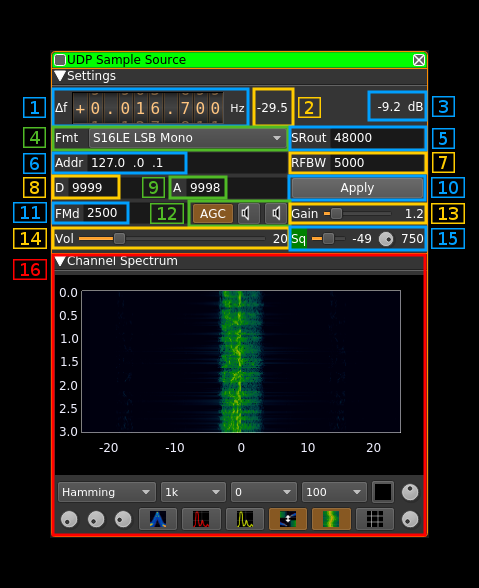
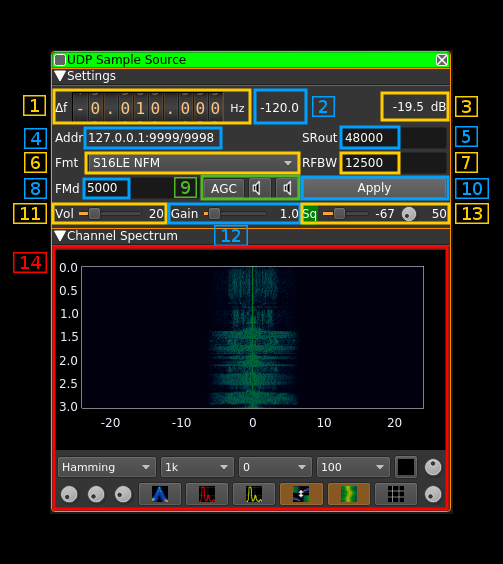
Updated documentation (2)

diff --git a/plugins/channelrx/udpsrc/readme.md b/plugins/channelrx/udpsrc/readme.md
@@ -26,7 +26,17 @@ Total power in dB relative to a +/- 1.0 amplitude signal received in the pass ba
 
 Total power in dB relative to a +/- 1.0 amplitude signal sent over UDP.
 
-<h3>4: Type of samples</h3>
+<h3>4: UDP address and ports</h3>
+
+These parameters are set with the basic channel settings dialog. See: [here](https://github.com/f4exb/sdrangel/blob/master/sdrbase/readme.md#6-channels)
+
+The display is in the format `address:audio port/data port` 
+
+<h3>5: Signal sample rate</h3>
+
+Sample rate in samples per second of the signal that is sent over UDP. The actual byte rate depends on the type of sample which corresponds to a number of bytes per sample.
+
+<h3>6: Type of samples</h3>
 
 Combo box to specify the type of samples that are sent over UDP.
 
@@ -41,27 +51,31 @@ Combo box to specify the type of samples that are sent over UDP.
   - `S16LE AM !DC Mono`: Same as above but with a DC block based on magnitude average over a 5 ms period     
   - `S16LE AM BPF Mono`: Same as AM Mono but raw magnitude signal is passed through a bandpass filter with lower cutoff at 300 Hz and higher cutoff at RF bandwidth frequency     
   
-<h3>5: Signal sample rate</h3>
-
-Sample rate in samples per second of the signal that is sent over UDP. The actual byte rate depends on the type of sample which corresponds to a number of bytes per sample.
-
-<h3>6: Remote IP address</h3>
-
-IP address of the remote destination to which samples are sent 
-
 <h3>7: Signal bandwidth</h3>
 
 The signal is bandpass filtered to this bandwidth (zero frequency centered) before being sent out as raw I/Q samples or before being demodulated for SSB and FM outputs. Thus a 20000 Hz bandwidth for example means +/-10000 Hz around center channel frequency.
 
 When SSB formats are used only the lower half (LSB) or upper half (USB) of the bandwidth is used. Thus to pass SSB over 3000 Hz bandwidth one should set this signal bandwidth to 6000 Hz.
 
-<h3>8: Remote data port</h3>
+<h3>8: FM deviation</h3>
 
-Remote UDP port number to which samples are sent 
+This is the maximum expected FM deviation in Hz for NFM demodulated samples. Therefore it is active only for `NFM` types of sample formats. A positive deviation of this amount from the central carrier will result in a sample output value of 32767 (0x7FFF) corresponding to a +1.0 real value. A negative deviation of this amount from the central carrier will result in a sample output value of -32768 (0x8000) corresponding to a -1.0 real value.  
 
-<h3>9: Local audio UDP port</h3>
+<h3>9: AGC and audio feedback control</h3>
 
-There is a possible feedback of audio samples at 48 kHz into SDRangel using this port as the UDP port on the local machine to collect the audio samples.
+![UDP Source plugin GUI AGC](../../../doc/img/UDPsrc_plugin_agc.png)
+
+<h4>9.1: Toggle AGC</h4>
+
+It is effective only for AM and SSB. Signal is normalized to +/- 0.5 times the maximum amplitude with a time constant (averaging) of 200 ms. When engaged the squelch gate is fixed at 50 ms. The release time controlled by (15.3) can be increased from the 50 ms default for SSB signals to prevent accidental signal drops due to drops in the voice.  
+
+<h4>9.2: Toggle audio feedback</h4>
+
+This turns on or off the audio samples feedback
+
+<h4>9.3: Mono/Stereo toggle for audio feedback</h4>
+
+This toggles between mono or stereo audio feedback
 
 <h3>10: Apply (validation) button</h3>
 
@@ -77,53 +91,33 @@ The changes in the following items only become effective when this button is pre
 
 When any item of these items is changed the button is lit in green until it is pressed. 
 
-<h3>11: FM deviation</h3>
-
-This is the maximum expected FM deviation in Hz for NFM demodulated samples. Therefore it is active only for `NFM` types of sample formats. A positive deviation of this amount from the central carrier will result in a sample output value of 32767 (0x7FFF) corresponding to a +1.0 real value. A negative deviation of this amount from the central carrier will result in a sample output value of -32768 (0x8000) corresponding to a -1.0 real value.  
-
-<h3>12: AGC and audio feedback control</h3>
-
-![UDP Source plugin GUI AGC](../../../doc/img/UDPsrc_plugin_agc.png)
-
-<h4>12.1: Toggle AGC</h4>
-
-It is effective only for AM and SSB. Signal is normalized to +/- 0.5 times the maximum amplitude with a time constant (averaging) of 200 ms. When engaged the squelch gate is fixed at 50 ms. The release time controlled by (15.3) can be increased from the 50 ms default for SSB signals to prevent accidental signal drops due to drops in the voice.  
-
-<h4>12.2: Toggle audio feedback</h4>
-
-This turns on or off the audio samples feedback
-
-<h4>12.3: Mono/Stereo toggle for audio feedback</h4>
-
-This toggles between mono or stereo audio feedback
-
-<h3>13: Gain</h3>
-
-This gain is applied to the samples just before they are sent via UDP. The gain value appears at the right of the slider.
-
-<h3>14: Audio volume</h3>
+<h3>11: Audio volume</h3>
 
 Volume of the audio feedback (when se with button 12.2).
 
-<h3>15: Squelch</h3>
+<h3>12: Gain</h3>
+
+This gain is applied to the samples just before they are sent via UDP. The gain value appears at the right of the slider.
+
+<h3>13: Squelch</h3>
 
 ![UDP Source plugin GUI Squelch](../../../doc/img/UDPsrc_plugin_sq.png)
 
-<h4>15.1: Squelch indicator</h4>
+<h4>13.1: Squelch indicator</h4>
 
 The background of the "Sq" text is lit in green when the squelch is open
 
-<h4>15.2: Squelch level</h4>
+<h4>13.2: Squelch level</h4>
 
 Use the slider to set the squelch power threshold based on channel input power (2). At the right of the slider the value in dB is displayed
 
-<h4>15.2: Squelch gate</h4>
+<h4>13.2: Squelch gate</h4>
 
 Sets the delay after which a signal constantly above the squelch threshold effectively opens the squelch. The same delay is used for squelch release except for SSB where the gate is fixed at 50 ms and this controls the release time only.
 
 The delay in milliseconds is displayed at the right of the button. 
 
-<h3>16: Spectrum display</h3>
+<h3>14: Spectrum display</h3>
 
 This is the spectrum display of the channel signal after bandpass filtering. Please refer to the Spectrum display description for details. 
 
